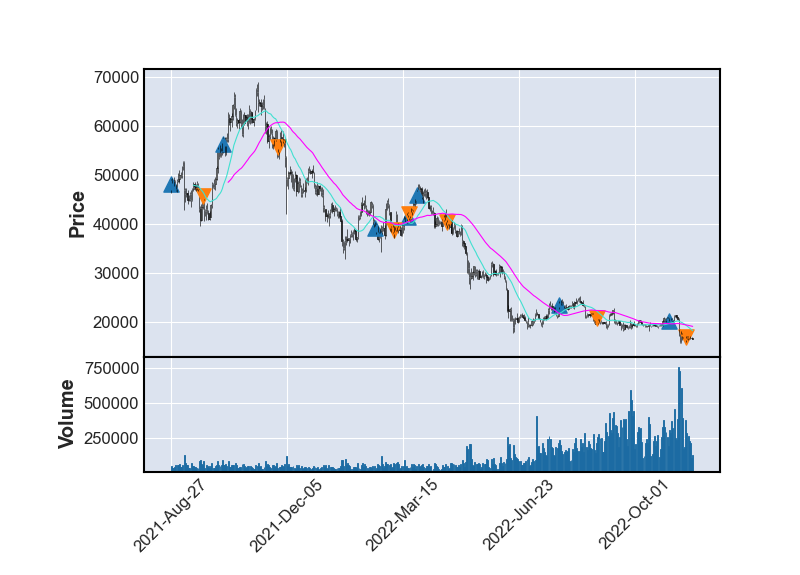
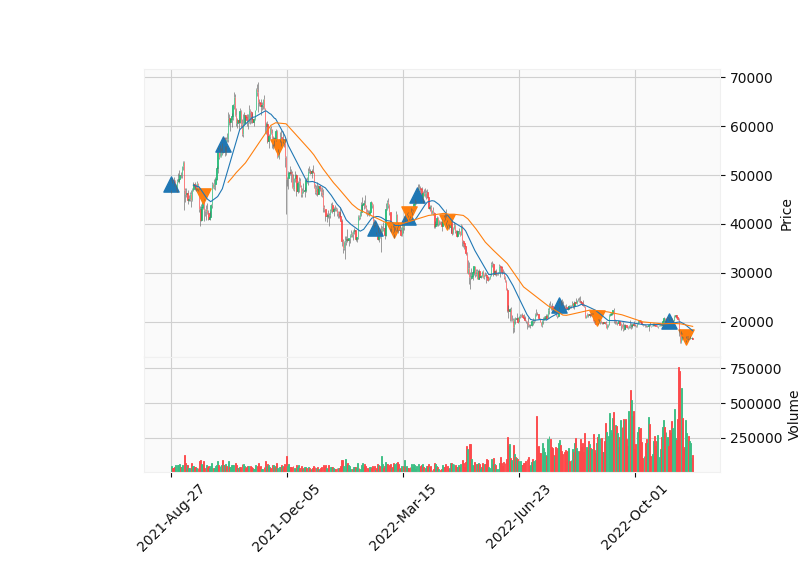
yfinance added

diff --git a/sample2.py b/sample2.py
@@ -1,0 +1,28 @@
+import matplotlib.pyplot as plt
+import mplfinance as mpf
+import yfinance as yf
+
+tickers = ['AAPL','GOOG','TSLA']
+data = yf.download(tickers, start="2021-01-01", end="2021-03-01", group_by='ticker')
+
+aapl = data[('AAPL',)]
+goog = data[('GOOG',)]
+tsla = data[('TSLA',)]
+
+fig = mpf.figure(style='yahoo', figsize=(12,9))
+#fig.subplots_adjust(hspace=0.3)
+ax1 = fig.add_subplot(3,1,1)
+ax2 = fig.add_subplot(3,1,2)
+ax3 = fig.add_subplot(3,1,3)
+
+mpf.plot(aapl, type='line', ax=ax1, axtitle='AAPL', xrotation=0)
+mpf.plot(goog, type='line', ax=ax2, axtitle='GOOG', xrotation=0)
+mpf.plot(tsla, type='line', ax=ax3, axtitle='TSLA', xrotation=0)
+ax1.set_xticklabels([])
+ax2.set_xticklabels([])
+
+N = len(tickers)
+fig, axes = plt.subplots(N, figsize=(20, 5*N), sharex=True)
+
+for df,t,ax in zip([aapl,goog,tsla], tickers, axes):
+    mpf.plot(df, ax=ax, axtitle=t, type='line', show_nontrading=True)# volume=True 

diff --git a/test.py b/test.py
@@ -40,7 +40,7 @@ data['MA50'] = data['Close'].rolling(50).mean()
 data = data.dropna()
 #print(dat)
 
-print(data.tail())
+#print(data.tail())
 
 
 buy_signals = []
@@ -62,5 +62,5 @@ sell_markers = mpf.make_addplot(sell_signals, type='scatter', markersize=120, ma
 apds = [buy_markers, sell_markers]
 
 
-mpf.plot(data, type='candle', mav=[20, 50], volume=True, addplot=apds, savefig=imageFilename)
+mpf.plot(data, type='candle', style="yahoo", mav=[20, 50], volume=True, addplot=apds, savefig=imageFilename)
 #mpf.savefig(imageFilename)

diff --git a/sample1.py b/sample1.py
@@ -1,0 +1,17 @@
+import mplfinance as mpf
+import pandas as pd
+import datetime as dt
+import pandas_datareader as pdr
+
+#now = dt.datetime.now()
+#start = now - dt.timedelta(60)
+
+stock = "^GSPC" #S&P500
+stock = "BTC-USD" #S&P500
+filename = stock.lower()+'.png'
+
+#df = pdr.get_data_yahoo(stock, start , now)
+df = pdr.get_data_yahoo(stock, "2020-01-01" , "2022-11-21")
+print(df.head())
+#mpf.plot(df,type='candle',style='yahoo',savefig=filename)
+mpf.plot(df, type='candle',style='yahoo', volume=True)
